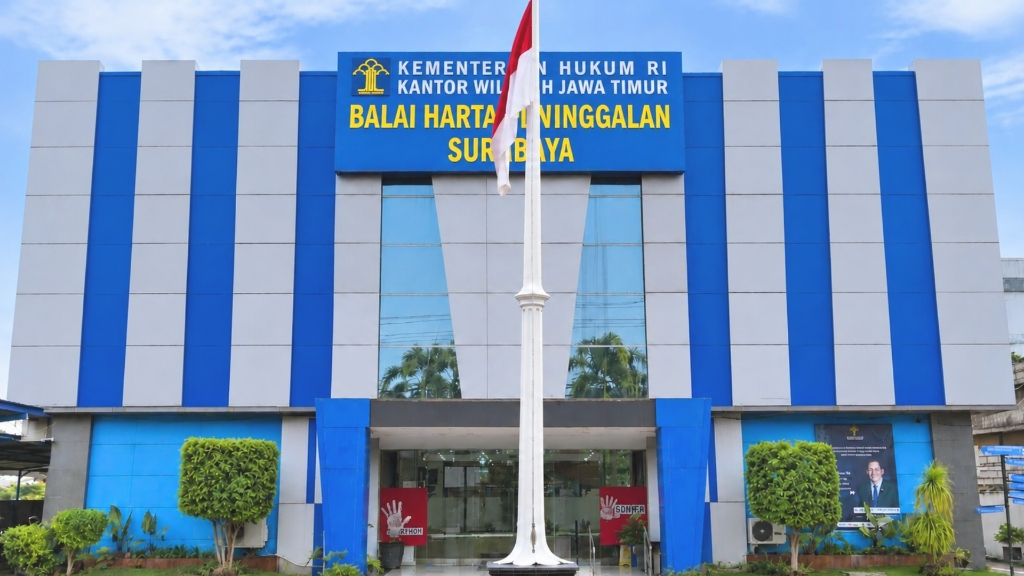
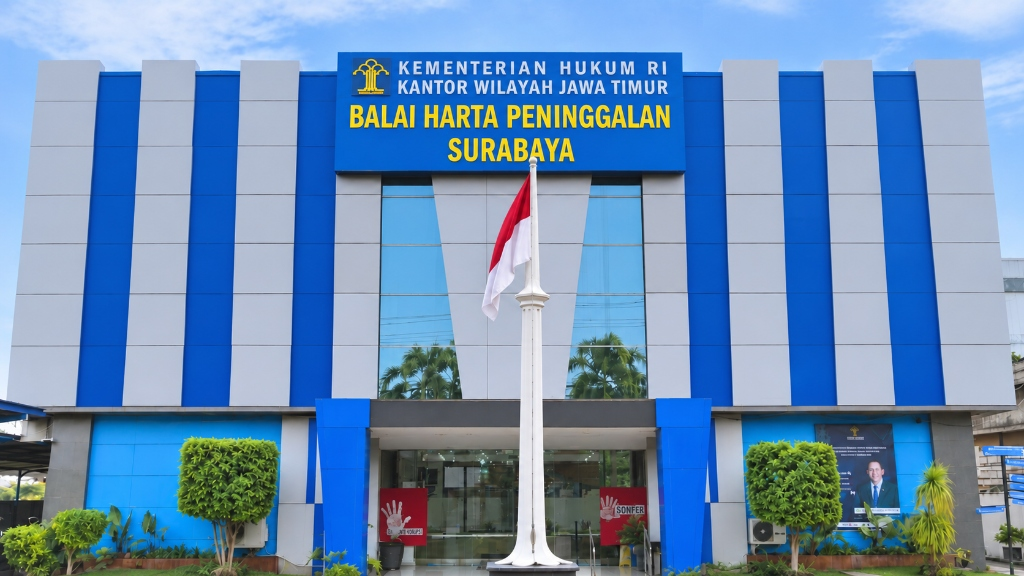
feat: update login and auth background image to new BHP building photo

diff --git a/resources/views/auth/forgot-password.blade.php b/resources/views/auth/forgot-password.blade.php
@@ -1,7 +1,7 @@
 <x-guest-layout :full-bleed="true">
     <div class="relative min-h-screen w-full flex items-center justify-center overflow-x-hidden bg-slate-900 py-6 sm:py-10 px-4 sm:px-8">
         <!-- Background Image of BHP Surabaya Building -->
-        <div class="absolute inset-0 bg-cover bg-center sm:bg-[center_top_20%] bg-no-repeat transition-all duration-700 scale-100" 
+        <div class="absolute inset-0 bg-cover bg-center bg-no-repeat transition-all duration-700 scale-100" 
              style="background-image: url('{{ asset('images/bg-gedung-bhp-clean.jpg') }}');">
         </div>
 

diff --git a/resources/views/auth/reset-password.blade.php b/resources/views/auth/reset-password.blade.php
@@ -1,7 +1,7 @@
 <x-guest-layout :full-bleed="true">
     <div class="relative min-h-screen w-full flex items-center justify-center overflow-x-hidden bg-slate-900 py-6 sm:py-10 px-4 sm:px-8">
         <!-- Background Image of BHP Surabaya Building -->
-        <div class="absolute inset-0 bg-cover bg-center sm:bg-[center_top_20%] bg-no-repeat transition-all duration-700 scale-100" 
+        <div class="absolute inset-0 bg-cover bg-center bg-no-repeat transition-all duration-700 scale-100" 
              style="background-image: url('{{ asset('images/bg-gedung-bhp-clean.jpg') }}');">
         </div>
 

diff --git a/resources/views/auth/verify-email.blade.php b/resources/views/auth/verify-email.blade.php
@@ -1,7 +1,7 @@
 <x-guest-layout :full-bleed="true">
     <div class="relative min-h-screen w-full flex items-center justify-center overflow-x-hidden bg-slate-900 py-6 sm:py-10 px-4 sm:px-8">
         <!-- Background Image of BHP Surabaya Building -->
-        <div class="absolute inset-0 bg-cover bg-center sm:bg-[center_top_20%] bg-no-repeat transition-all duration-700 scale-100" 
+        <div class="absolute inset-0 bg-cover bg-center bg-no-repeat transition-all duration-700 scale-100" 
              style="background-image: url('{{ asset('images/bg-gedung-bhp-clean.jpg') }}');">
         </div>
 

diff --git a/resources/views/auth/register.blade.php b/resources/views/auth/register.blade.php
@@ -1,7 +1,7 @@
 <x-guest-layout :full-bleed="true">
     <div class="relative min-h-screen w-full flex items-center justify-center overflow-x-hidden bg-slate-900 py-4 sm:py-6 lg:py-8 px-4 sm:px-6">
         <!-- Background Image of BHP Surabaya Building -->
-        <div class="absolute inset-0 bg-cover bg-center sm:bg-[center_top_20%] bg-no-repeat transition-all duration-700" 
+        <div class="absolute inset-0 bg-cover bg-center bg-no-repeat transition-all duration-700" 
              style="background-image: url('{{ asset('images/bg-gedung-bhp-clean.jpg') }}');">
         </div>
 
